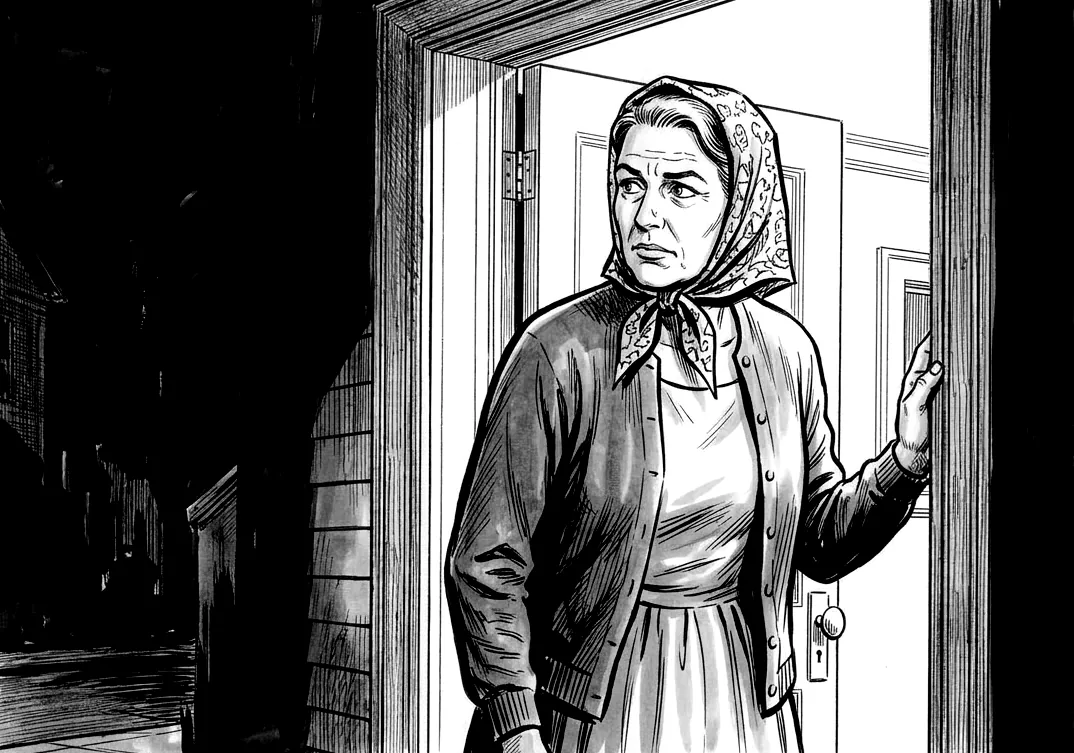
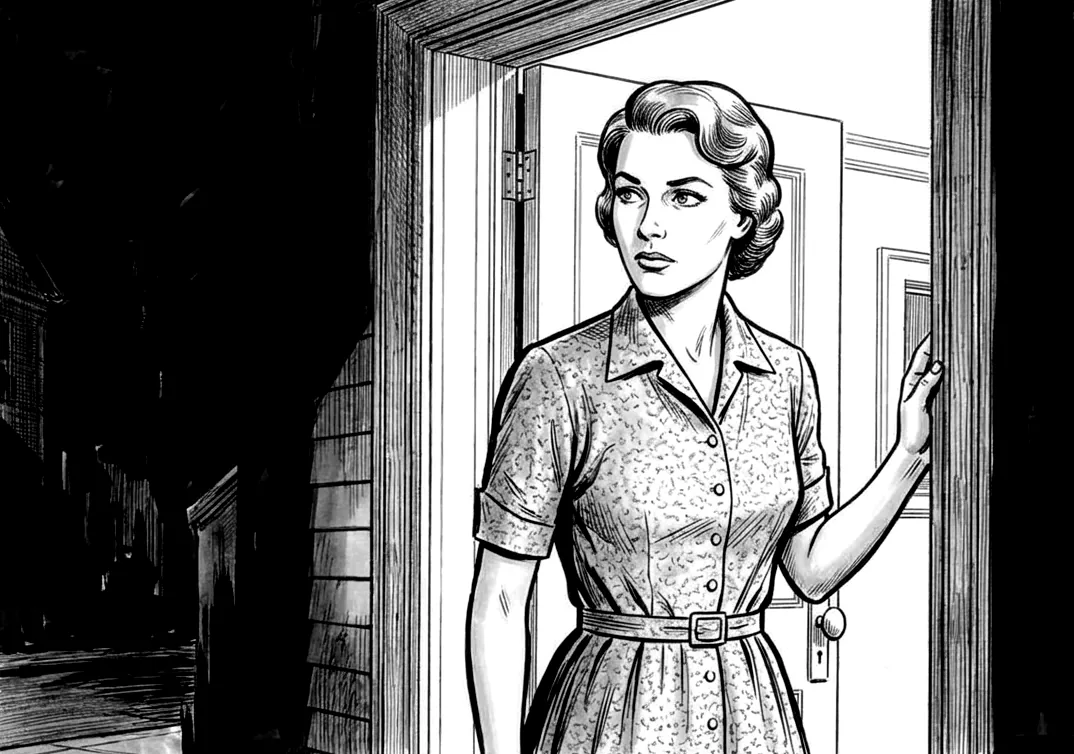
Ny rollbild för stadsbon (kvinna)
Claude-Session: https://claude.ai/code/session_01X82C4BNK6EAMjc8zCm3VXK

diff --git a/src/scenes/sceneImages.js b/src/scenes/sceneImages.js
@@ -78,7 +78,7 @@ export const SCENE_IMAGES = /** @type {const} */ ({
   roleDetectiveMan: { src: roleDetectiveMan, alt: 'En manlig detektiv i mörk trenchcoat och hatt antecknar i ett block i en regnig gränd.', position: '75% 30%' },
   roleDoctorWoman: { src: roleDoctorWoman, alt: 'En läkare i mörk kappa med stetoskop och läkarväska står i en upplyst dörröppning.', position: '100% 30%' },
   roleDoctorMan: { src: roleDoctorMan, alt: 'En läkare med glasögon och mustasch, i mörk kappa med stetoskop och läkarväska, står i en upplyst dörröppning.', position: '100% 30%' },
-  roleCitizenWoman: { src: roleCitizenWoman, alt: 'En kvinna i huvudduk och kofta tittar misstänksamt ut genom sin ytterdörr.', position: '100% 30%' },
+  roleCitizenWoman: { src: roleCitizenWoman, alt: 'En kvinna i blommig klänning står i sin öppna ytterdörr och ser ut i mörkret med handen mot dörrkarmen.', position: '75% 30%' },
   roleCitizenMan: { src: roleCitizenMan, alt: 'En man i keps och kofta tittar misstänksamt ut genom sin ytterdörr.', position: '100% 30%' },
   roleTaxiDriverWoman: { src: roleTaxiDriverWoman, alt: 'En taxichaufför i skärmmössa och skinnrock sitter vid ratten en regnig natt utanför ett hotell.', position: '100% 30%' },
   roleTaxiDriverMan: { src: roleTaxiDriverMan, alt: 'En taxichaufför i keps med en cigarett i munnen lutar sig ut genom bilrutan en regnig natt utanför ett hotell.', position: '85% 30%' },
